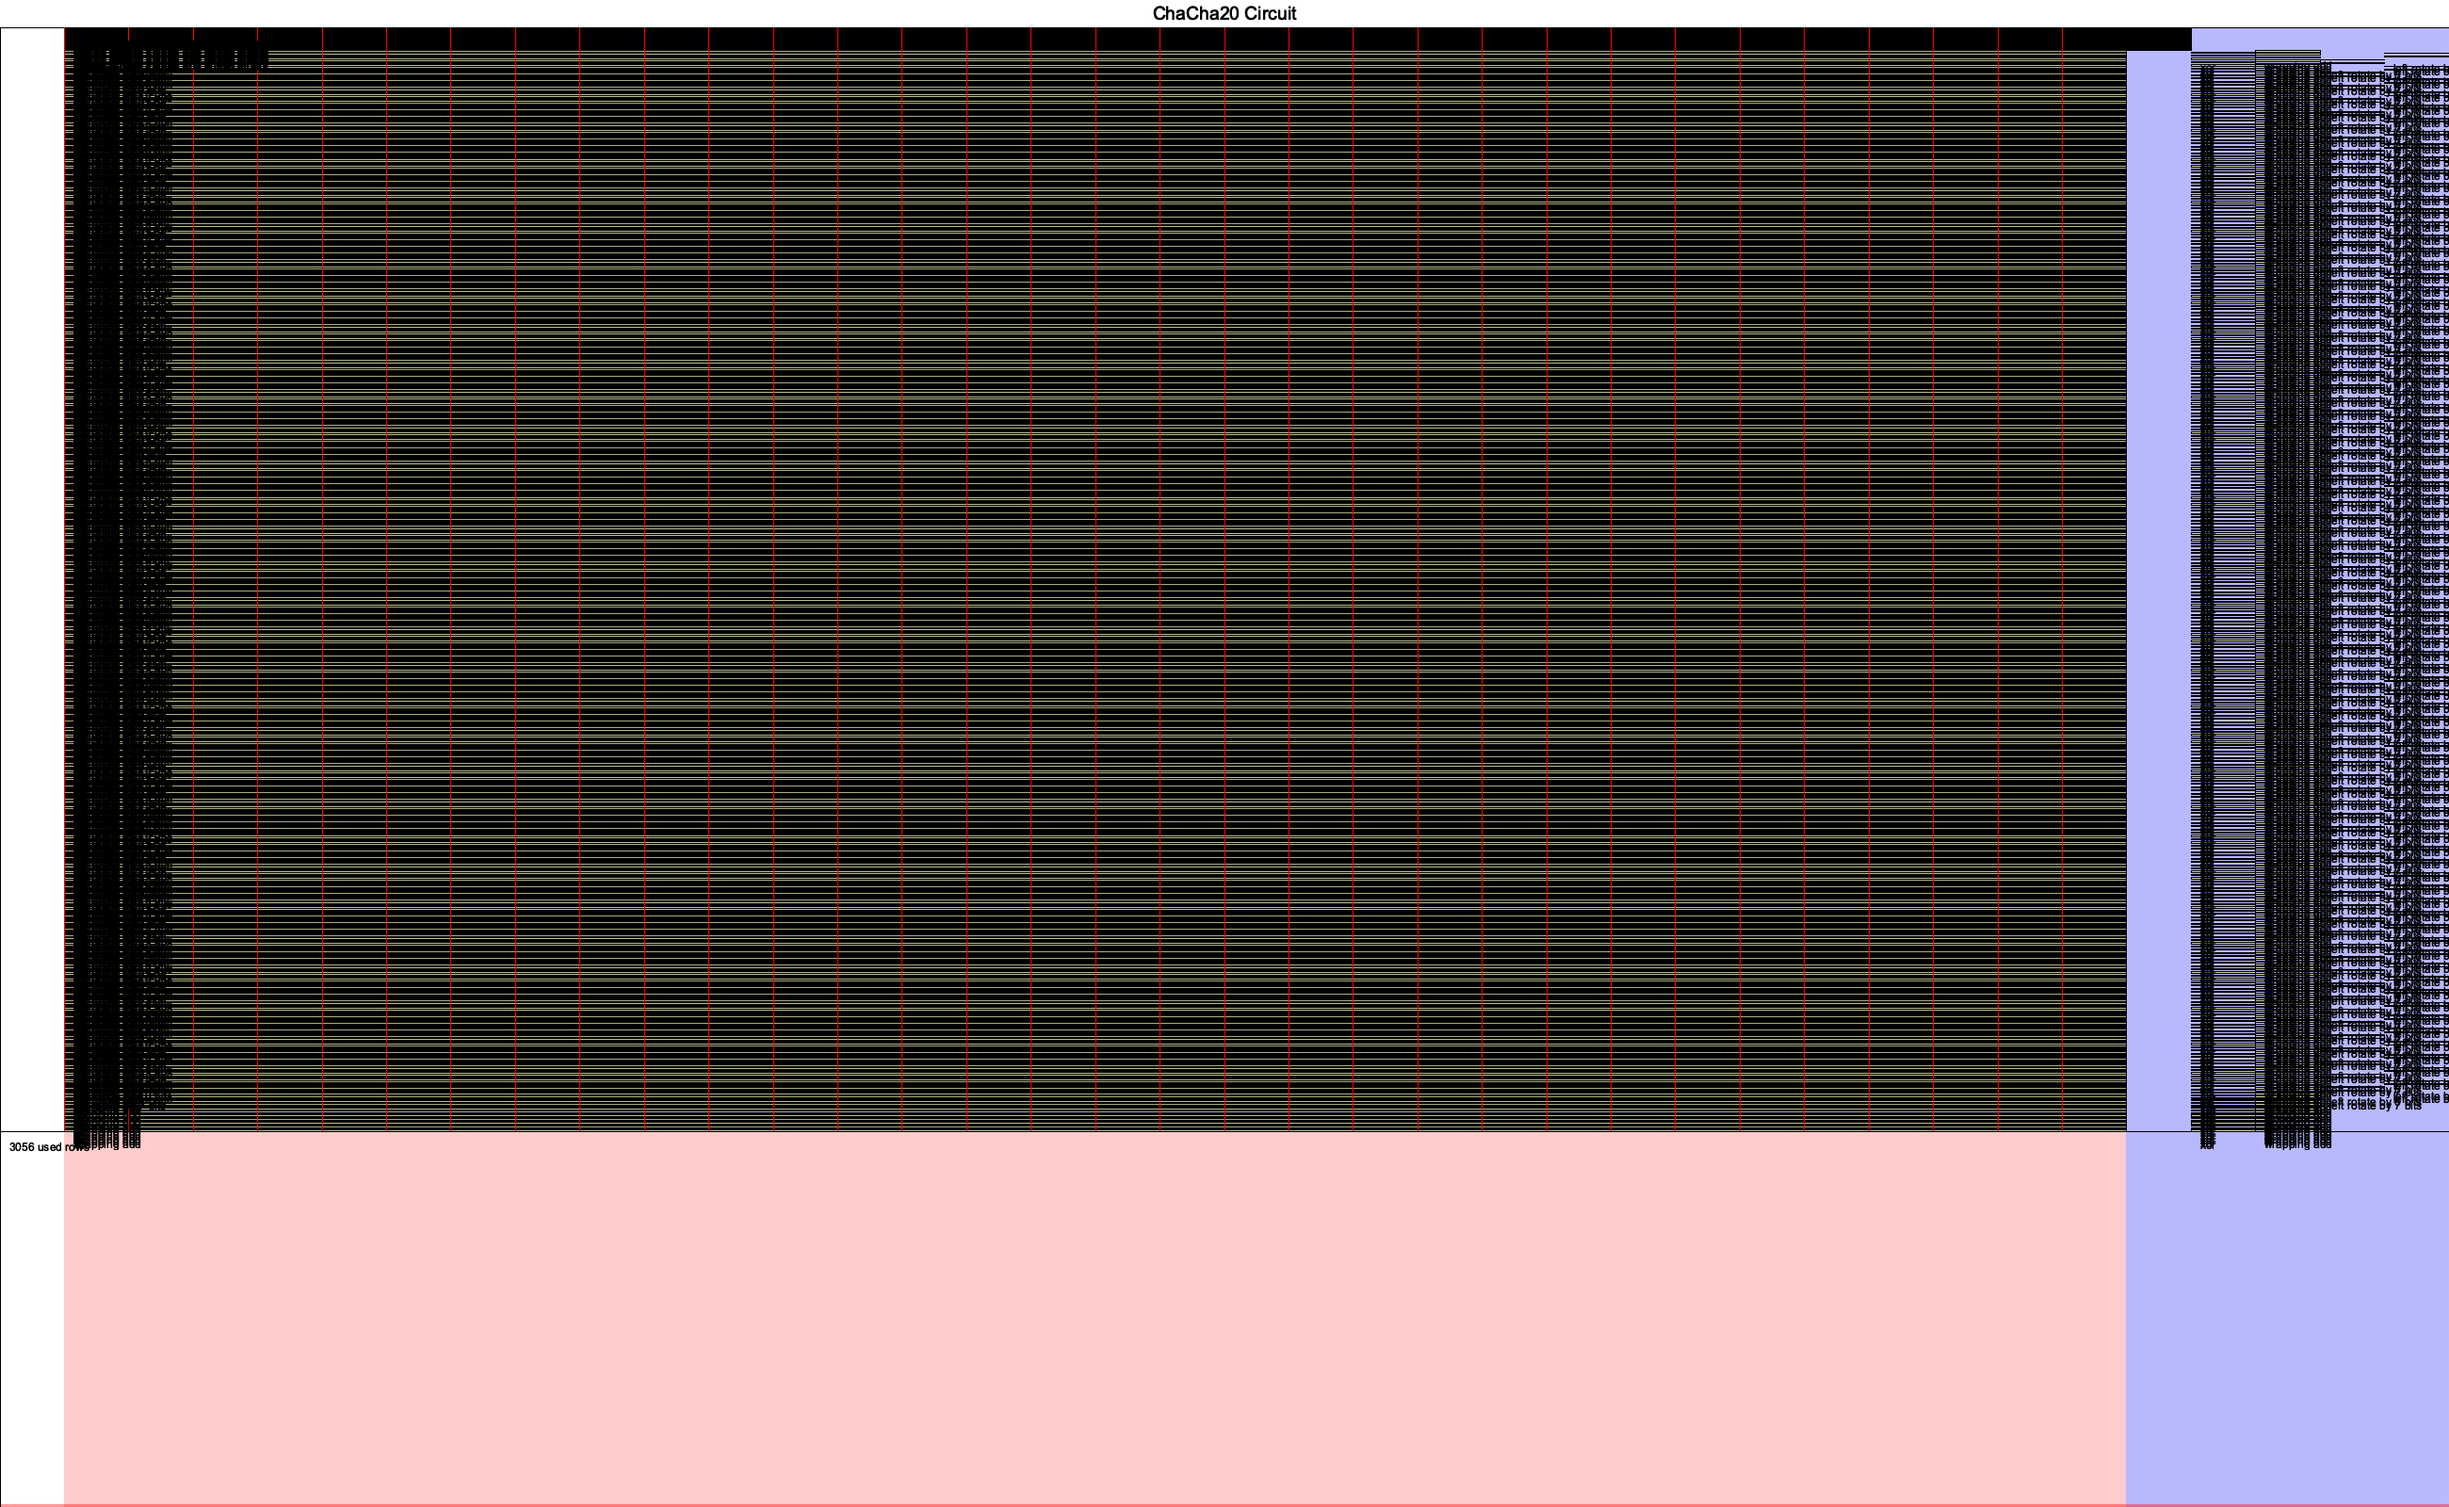
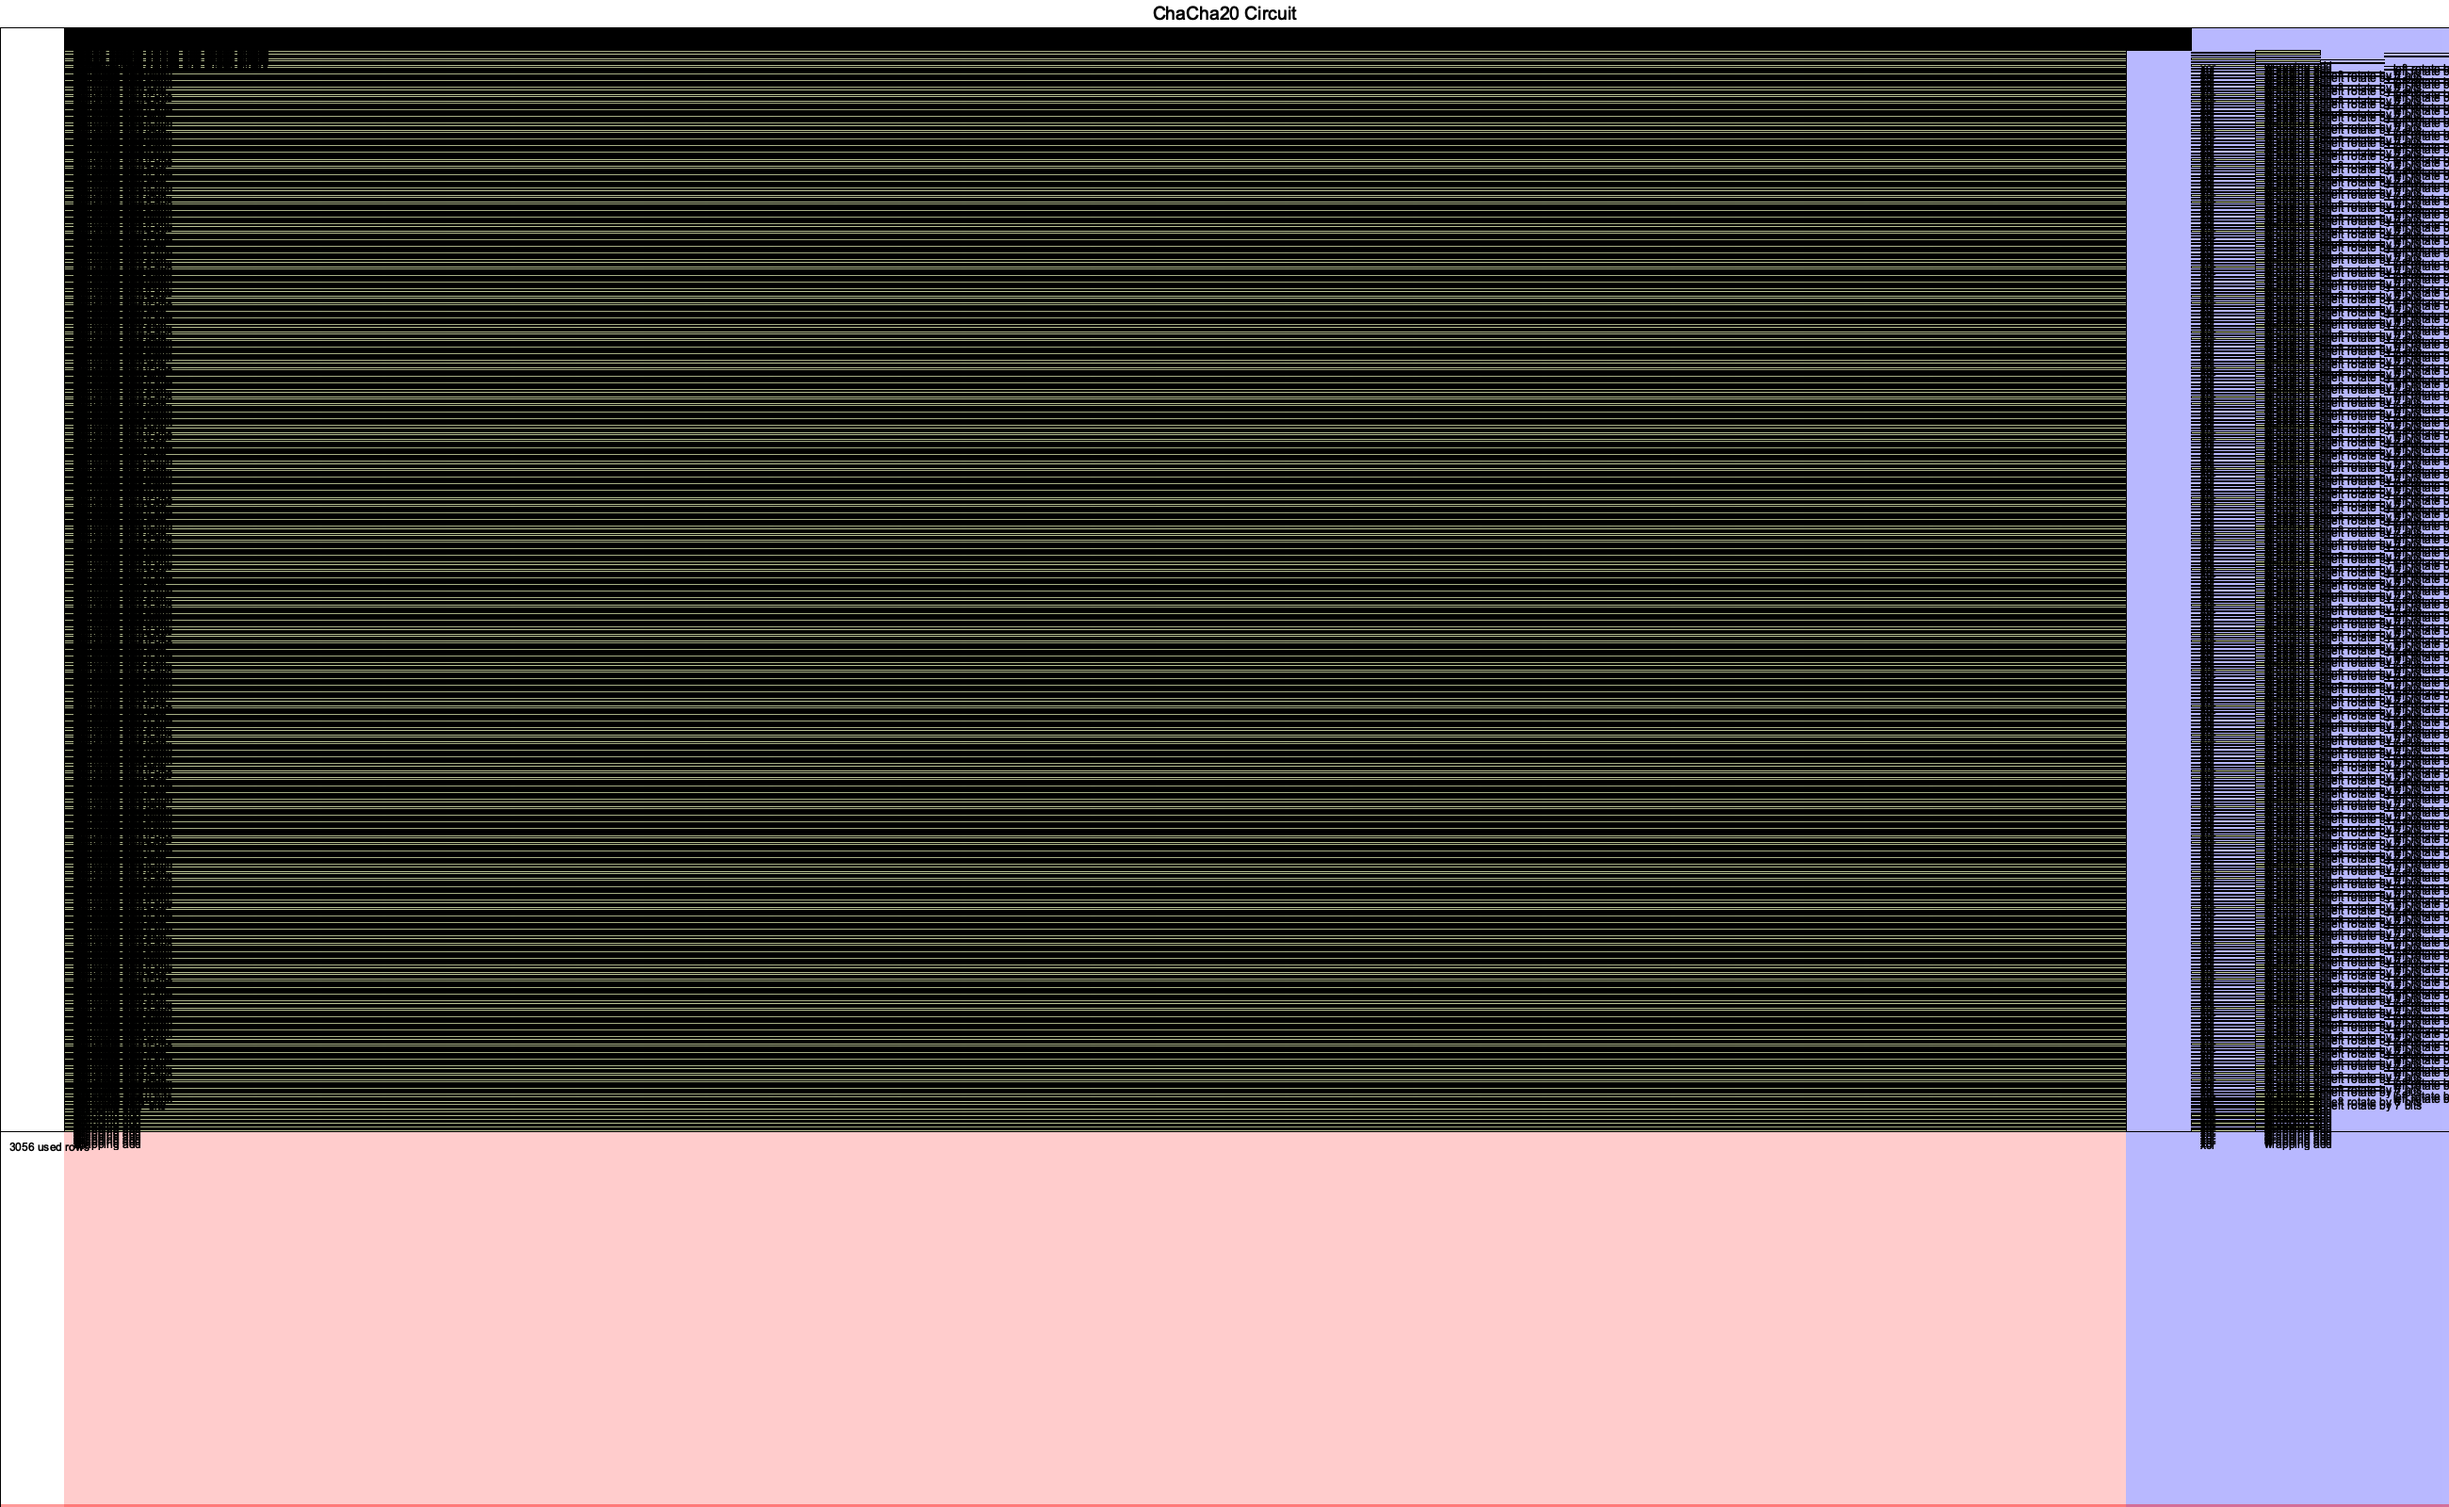
evulate proof cost, rename the circuit file

diff --git a/src/main.rs b/src/main.rs
@@ -1,6 +1,11 @@
-use halo2_chacha20::utilities::{create_circuit, draw_circuit, run_mock_prover, u32_to_binary};
+use halo2_chacha20::utilities::{
+    create_circuit, draw_circuit, empty_circuit, generate_keys, generate_proof,
+    generate_setup_params, run_mock_prover, u32_to_binary, verify,
+};
+use pasta_curves::vesta;
+use std::time::Instant;
 
-fn main() {
+pub fn run_chacha20_circuit_example(operation: String) {
     // Size of the circuit. Circuit must fit within 2^k rows.
     let k = 12;
 
@@ -32,7 +37,46 @@ fn main() {
     let chacha_circuit = create_circuit(init_state_vectors, plaintext_vectors, ciphertext_vectors);
     let public_inputs = vec![vec![]];
 
-    // Items that are useful for debugging issues
-    draw_circuit(k, &chacha_circuit);
-    run_mock_prover(k, &chacha_circuit, public_inputs);
+    match &operation[..] {
+        "mock_prover" => {
+            run_mock_prover(k, &chacha_circuit, public_inputs);
+        }
+        "visualization" => {
+            draw_circuit(k, &chacha_circuit);
+        }
+        "plonk_prover" => {
+            // Generate setup params
+            let params = generate_setup_params(k);
+
+            // Generate proving and verifying keys
+            let empty_circuit = empty_circuit();
+            let (pk, vk) = generate_keys(&params, &empty_circuit);
+
+            // Generate proof
+            let start_proof = Instant::now(); // Start timing
+            let proof = generate_proof(&params, &pk, chacha_circuit.clone(), &vec![]);
+            println!("Proof length: {} Bytes", proof.len());
+            let duration_proof = start_proof.elapsed(); // Calculate elapsed time
+            println!("Proof creation time: {:?}", duration_proof);
+
+            // Verify proof
+            let start_verify = Instant::now(); // Start timing
+            verify(&params, &vk, &vec![], proof);
+            let duration_verify = start_verify.elapsed(); // Calculate elapsed time
+            println!("Verification time: {:?}", duration_verify);
+
+            // Calculate the circuit cost
+            let circuit_cost =
+                halo2_proofs::dev::CircuitCost::<vesta::Point, _>::measure(k, &chacha_circuit);
+            println!("Circuit cost: {:?}", circuit_cost);
+        }
+        _ => {}
+    };
+}
+
+fn main() {
+    // Run plonk prover
+    run_chacha20_circuit_example("plonk_prover".to_string());
+    run_chacha20_circuit_example("visualization".to_string());
+
 }

diff --git a/src/utilities.rs b/src/utilities.rs
@@ -1,12 +1,11 @@
-use crate::chacha20_v1::ChaCha20Circuit;
+use crate::chacha20_circuit_v1::ChaCha20Circuit;
 use crate::constants::{BINARY_LENGTH, STATE_LENGTH};
 use ff::Field;
 use halo2_proofs::circuit::Value;
 use halo2_proofs::dev::MockProver;
 use halo2_proofs::pasta::{EqAffine, Fp};
 use halo2_proofs::plonk::{
-    create_proof, keygen_pk, keygen_vk, verify_proof, Error, ProvingKey, SingleVerifier,
-    VerifyingKey,
+    create_proof, keygen_pk, keygen_vk, verify_proof, ProvingKey, SingleVerifier, VerifyingKey,
 };
 use halo2_proofs::poly::commitment::Params;
 use halo2_proofs::transcript::{Blake2bRead, Blake2bWrite, Challenge255};
@@ -20,7 +19,17 @@ pub fn draw_circuit<F: Field>(k: u32, circuit: &ChaCha20Circuit<F>) {
     let base = base.titled("ChaCha20 Circuit", ("sans-serif", 24)).unwrap();
 
     halo2_proofs::dev::CircuitLayout::default()
-        .show_equality_constraints(true)
+        // You can optionally render only a section of the circuit.
+        // .view_width(0..2)
+        // .view_height(0..16)
+        // You can hide labels, which can be useful with smaller areas.
+        .show_labels(true)
+        // Draws red lines between equality-constrained cells.
+        .show_equality_constraints(false)
+        // Marks cells involved in equality constraints, in red.
+        .mark_equality_cells(false)
+        // Render the circuit onto your area!
+        // The first argument is the size parameter for the circuit.
         .render(k, circuit, &base)
         .unwrap();
 }
@@ -142,11 +151,17 @@ pub fn verify(
     vk: &VerifyingKey<EqAffine>,
     pub_input: &Vec<Fp>,
     proof: Vec<u8>,
-) -> Result<(), Error> {
+) {
     println!("Verifying proof...");
     let strategy = SingleVerifier::new(params);
     let mut transcript = Blake2bRead::<_, _, Challenge255<_>>::init(&proof[..]);
-    verify_proof(params, vk, strategy, &[&[pub_input]], &mut transcript)
+    match verify_proof(params, vk, strategy, &[&[pub_input]], &mut transcript) {
+        Ok(()) => println!("The statement is TRUE"),
+        Err(error) => {
+            println!("The statement is FALSE.");
+            println!("ERROR: {}", error);
+        }
+    }
 }
 
 /// data transformation

diff --git a/src/chacha20_circuit_v1.rs b/src/chacha20_circuit_v1.rs
@@ -62,6 +62,7 @@ trait Instructions<F: Field>: Chip<F> {
 }
 
 // The chip which holds the circuit config
+
 pub struct ChaCha20Chip<F: Field> {
     config: ChaCha20Config,
     _marker: PhantomData<F>,
@@ -529,7 +530,7 @@ impl<F: Field> Instructions<F> for ChaCha20Chip<F> {
     }
 }
 
-#[derive(Default)]
+#[derive(Default, Debug, Clone)]
 pub struct ChaCha20Circuit<F: Field> {
     pub(crate) init_state: Vec<[Value<F>; BINARY_LENGTH]>,
     pub(crate) plaintexts: Vec<[Value<F>; BINARY_LENGTH]>,

diff --git a/src/lib.rs b/src/lib.rs
@@ -1,4 +1,4 @@
-mod chacha20_v1;
+mod chacha20_circuit_v1;
 pub mod constants;
 pub mod utilities;
 
